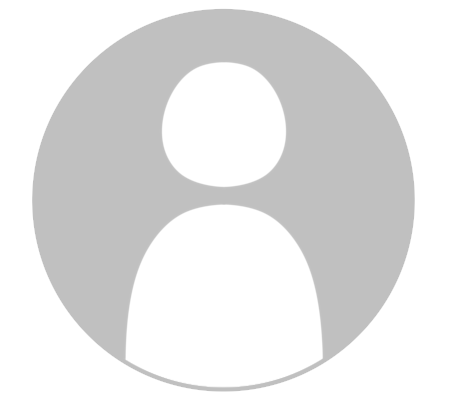
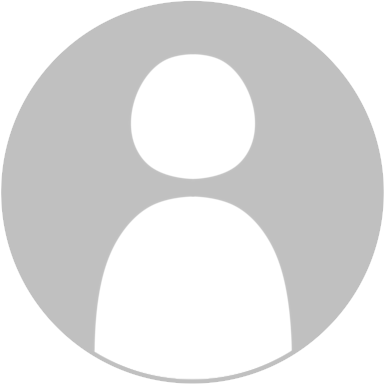
icon表示を修正

diff --git a/app/assets/stylesheets/users.scss b/app/assets/stylesheets/users.scss
@@ -16,6 +16,7 @@
       height: 65px;
       background-size: cover;
       border-radius: 33px;
+      border: 1px solid rgb(230, 230, 230);
     }
     .no-image {
       // background-color: rgba(0, 0, 0, 0.05);
@@ -76,7 +77,6 @@
 .wrapper {
   padding: 10px;
   display: flex;
-  // background-color: rgb(113, 156, 113);
 
   .favorites {
     .box {

diff --git a/app/assets/stylesheets/groups.scss b/app/assets/stylesheets/groups.scss
@@ -108,6 +108,7 @@
             height: 50px;
             background-size: cover;
             border-radius: 25px;
+            border: 1px solid rgb(230, 230, 230);
           }
           .no-image {
             // background-color: rgba(0, 0, 0, 0.05);
